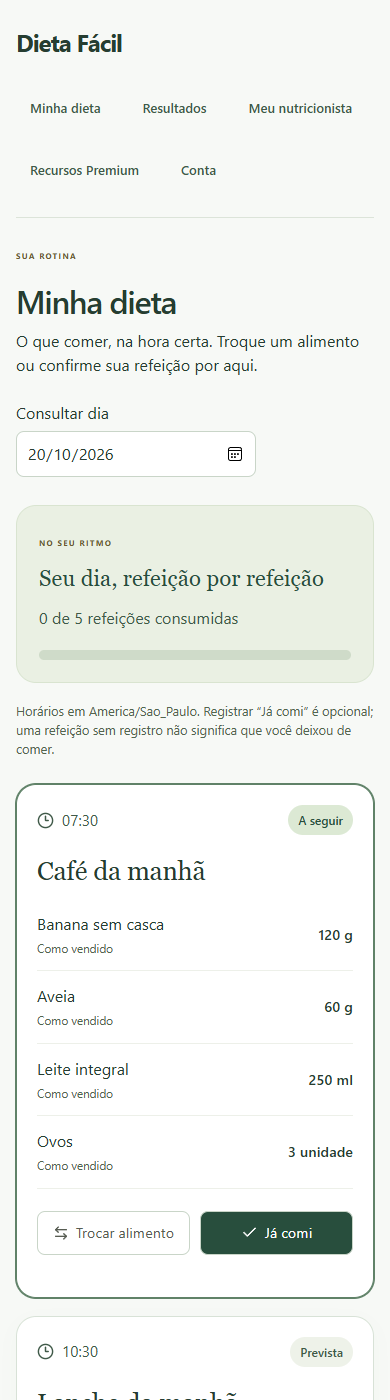
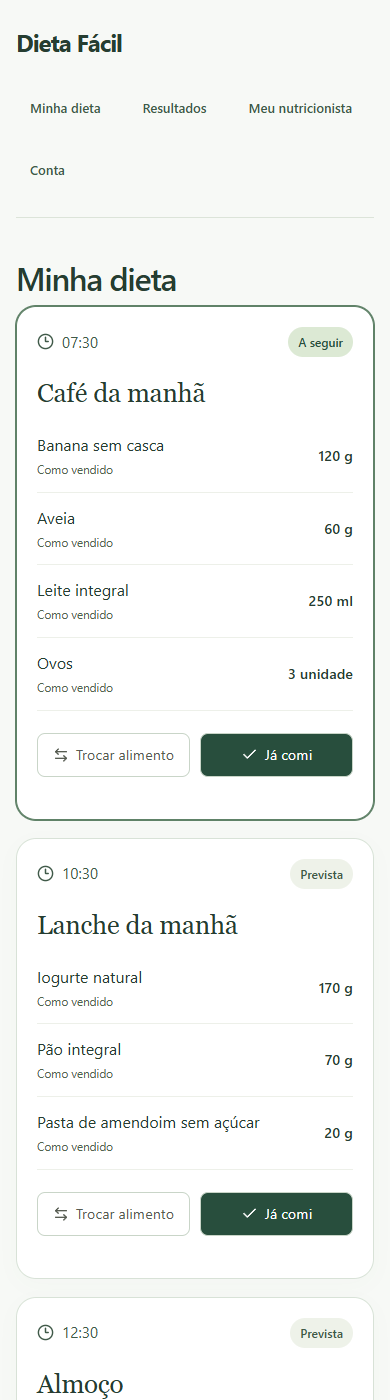
refactor(dieta): prioriza refeições na consulta do cliente
Move progresso e orientações para o rodapé e recolhe a consulta de outras datas. Retira Premium da navegação do cliente para reduzir distrações. Validação: build, lint e Edge em 320, 390 e 1440px, incluindo troca de data.

diff --git a/frontend/src/features/plans/DayPanel.tsx b/frontend/src/features/plans/DayPanel.tsx
@@ -143,28 +143,32 @@ export default function DayPanel({
       : undefined;
   return (
     <section className="daily-diet" aria-label="Refeições do dia">
-      <div className="diet-summary">
-        <div>
-          <span className="eyebrow">NO SEU RITMO</span>
-          <h2>
-            {date === today
-              ? "Seu dia, refeição por refeição"
-              : "Seu planejamento do dia"}
-          </h2>
-          <p>
-            {consumed} de {meals.length} refeições consumidas
-          </p>
+      {!clientView && (
+        <div className="diet-summary">
+          <div>
+            <span className="eyebrow">NO SEU RITMO</span>
+            <h2>
+              {date === today
+                ? "Seu dia, refeição por refeição"
+                : "Seu planejamento do dia"}
+            </h2>
+            <p>
+              {consumed} de {meals.length} refeições consumidas
+            </p>
+          </div>
+          <progress
+            aria-label="Refeições consumidas"
+            value={consumed}
+            max={meals.length || 1}
+          />
         </div>
-        <progress
-          aria-label="Refeições consumidas"
-          value={consumed}
-          max={meals.length || 1}
-        />
-      </div>
-      <p className="diet-timezone">
-        Horários em {schedule.data.timezone}. Registrar “Já comi” é opcional;
-        uma refeição sem registro não significa que você deixou de comer.
-      </p>
+      )}
+      {!clientView && (
+        <p className="diet-timezone">
+          Horários em {schedule.data.timezone}. Registrar “Já comi” é opcional;
+          uma refeição sem registro não significa que você deixou de comer.
+        </p>
+      )}
       {error && (
         <p role="alert" className="form-error">
           {error}
@@ -434,6 +438,22 @@ export default function DayPanel({
             )}
           </form>
         </MealDialog>
+      )}
+      {clientView && (
+        <footer className="diet-client-footer">
+          <p>
+            {consumed} de {meals.length} refeições registradas
+          </p>
+          <progress
+            aria-label="Refeições consumidas"
+            value={consumed}
+            max={meals.length || 1}
+          />
+          <small>
+            O registro “Já comi” é opcional. Horários em{" "}
+            {schedule.data.timezone}.
+          </small>
+        </footer>
       )}
       {swap && (
         <SwapPanel

diff --git a/frontend/src/features/plans/PlansPage.tsx b/frontend/src/features/plans/PlansPage.tsx
@@ -94,7 +94,7 @@ function Workspace({
   return (
     <main className="plan-page">
       <PersonalNav />
-      <p className="eyebrow">SUA ROTINA</p>
+      {professional && <p className="eyebrow">SUA ROTINA</p>}
       <div className="diet-title-row">
         <h1>
           {editing
@@ -109,22 +109,26 @@ function Workspace({
           </button>
         )}
       </div>
-      <p>
-        {editing
-          ? "Organize refeições e porções. As mudanças começam na data escolhida."
-          : "O que comer, na hora certa. Troque um alimento ou confirme sua refeição por aqui."}
-      </p>
-      <label className="plan-date">
-        {editing ? "Aplicar dieta a partir de" : "Consultar dia"}
-        <input
-          type="date"
-          required
-          value={date}
-          onChange={(e) => {
-            if (e.target.value) setDate(e.target.value);
-          }}
-        />
-      </label>
+      {professional && (
+        <p>
+          {editing
+            ? "Organize refeições e porções. As mudanças começam na data escolhida."
+            : "O que comer, na hora certa. Troque um alimento ou confirme sua refeição por aqui."}
+        </p>
+      )}
+      {professional && (
+        <label className="plan-date">
+          {editing ? "Aplicar dieta a partir de" : "Consultar dia"}
+          <input
+            type="date"
+            required
+            value={date}
+            onChange={(e) => {
+              if (e.target.value) setDate(e.target.value);
+            }}
+          />
+        </label>
+      )}
       {editing ? (
         <EditorLoader key={date} userId={userId} date={date} today={today} />
       ) : (
@@ -136,6 +140,22 @@ function Workspace({
           timezone={timezone}
           clientView={!professional}
         />
+      )}
+      {!professional && (
+        <details className="diet-secondary-controls">
+          <summary>Consultar outro dia</summary>
+          <label className="plan-date">
+            Consultar dia
+            <input
+              type="date"
+              required
+              value={date}
+              onChange={(e) => {
+                if (e.target.value) setDate(e.target.value);
+              }}
+            />
+          </label>
+        </details>
       )}
     </main>
   );

diff --git a/frontend/src/features/plans/plans.css b/frontend/src/features/plans/plans.css
@@ -926,3 +926,30 @@
     align-items: center;
   }
 }
+.diet-client-footer {
+  margin-top: 28px;
+  color: #53655b;
+  font-size: 0.875rem;
+}
+.diet-client-footer progress {
+  display: block;
+  width: 100%;
+  max-width: 280px;
+  height: 6px;
+  margin: 12px 0;
+  accent-color: #284e3d;
+}
+.diet-client-footer small {
+  display: block;
+}
+.diet-secondary-controls {
+  margin-top: 24px;
+  padding-top: 16px;
+  border-top: 1px solid #d8e2d5;
+  color: #53655b;
+  font-size: 0.875rem;
+}
+.diet-secondary-controls summary {
+  cursor: pointer;
+  padding: 8px 0;
+}

diff --git a/frontend/src/features/personal.tsx b/frontend/src/features/personal.tsx
@@ -10,7 +10,6 @@ export function PersonalNav() {
         ["/conta/dieta", "Minha dieta"],
         ["/conta/resultados", "Resultados"],
         ["/conta/nutricionista", "Meu nutricionista"],
-        ["/conta/premium", "Recursos Premium"],
         ["/conta", "Conta"],
       ]
     : [

diff --git a/docs/DEVELOPMENT_LOG.md b/docs/DEVELOPMENT_LOG.md
@@ -199,3 +199,9 @@ Usuário informou que ainda não testou com o designer. Mantido o fluxo funciona
 A conferência externa passou novamente, preservando o endereço temporário existente e os dados fictícios de revisão. A captura passou a aguardar o conteúdo da tela (não apenas o título) e gera prévias por rota; cinco imagens atuais dos dois perfis foram selecionadas para docs/images após inspeção, sem endereço temporário, senhas ou dados pessoais. Viewports de captura: desktop1440 e móvel390; conferência também inclui320. Não se trata de teste em dispositivo físico.
 
 Verificações desta etapa: login/logout HTTPS, Secure/HttpOnly, autorização e ausência de rolagem lateral nas páginas verificadas; lint e referências locais da documentação. Não foram repetidas suítes do domínio sem mudança correspondente. CI da base anterior df2f22a aprovada (run39346483715). Feedback do designer/nutricionista e ativação permanente continuam pendentes.
+
+## 2026-10-27 — Consulta da dieta com foco nas refeições
+
+A tela do cliente apresenta as refeições logo após o título. Progresso e orientação de registro opcional passaram para um rodapé discreto; consulta de outra data permanece disponível em seção recolhida no final. Removido o link Recursos Premium do menu do cliente, mantendo as permissões e recursos existentes. Motivação: reduzir distrações na consulta diária e apresentar a funcionalidade principal com clareza.
+
+Validação: build TypeScript/Vite, lint e navegador Edge em 320, 390 e 1440px. Conferidos ausência de rolagem horizontal, menu sem Premium, posição do rodapé e seleção de outra data. Captura móvel atualizada com dados fictícios; ambiente de revisão iniciado apenas localmente em 8081.
